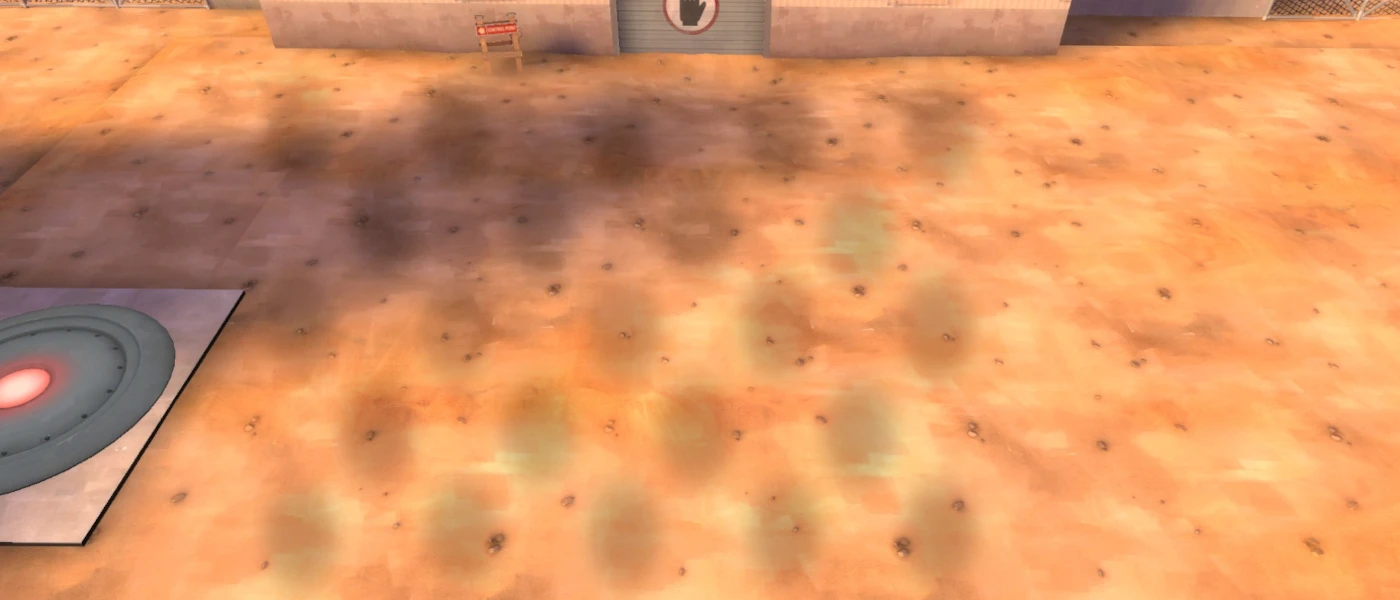
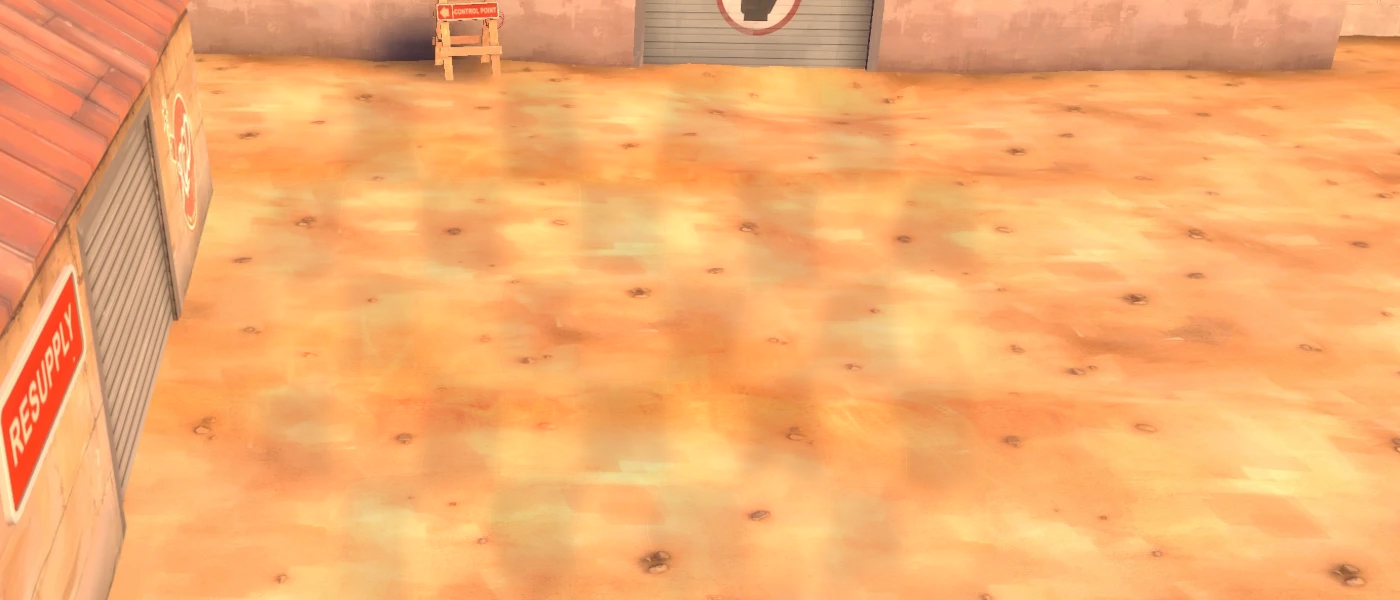
Adventure Plus: the user's day and night boards, with soft tiles blended into the planting area

diff --git a/tools/zombie-art/add_tiles.py b/tools/zombie-art/add_tiles.py
@@ -1,0 +1,80 @@
+"""Make the 9x5 planting area of an Adventure Plus board read as ground that
+varies a little from tile to tile -- the way the PvZ lawn alternates two
+shades of grass -- without drawing a checkerboard on it.
+
+    python add_tiles.py <in.png|webp> <out.png> [--night]
+
+The lawn grid is 9 columns x 5 rows of 80x100 tiles from (260, 80). Nothing
+is outlined. Alternate tiles are nudged slightly lighter/warmer or
+darker/cooler, each tile drifts a little on its own, and the boundaries are
+feathered wide and warped with noise, so the change is felt more than seen
+-- like patches of packed and loose dirt.
+"""
+import sys
+import numpy as np
+from PIL import Image, ImageFilter
+
+X0, Y0, COLS, ROWS, TW, TH = 260, 80, 9, 5, 80, 100
+FEATHER = 9          # px: how softly one tile's shade melts into the next
+WARP = 7             # px: how far the boundaries wander from straight lines
+
+
+def blur(a, r):
+    # Separable Gaussian in float, edges clamped.
+    radius = int(r * 3)
+    k = np.exp(-0.5 * (np.arange(-radius, radius + 1) / r) ** 2).astype(np.float32)
+    k /= k.sum()
+    p = np.pad(a, ((0, 0), (radius, radius)), mode='edge')
+    a = sum(k[i] * p[:, i:i + a.shape[1]] for i in range(len(k)))
+    p = np.pad(a, ((radius, radius), (0, 0)), mode='edge')
+    return sum(k[i] * p[i:i + a.shape[0], :] for i in range(len(k))).astype(np.float32)
+
+
+def smooth_noise(rng, H, W, r):
+    n = blur(rng.random((H, W)).astype(np.float32), r)
+    n = (n - n.mean()) / (n.std() + 1e-6)
+    return n
+
+
+def main(src, dst, night):
+    rng = np.random.default_rng(1347)
+    img = np.asarray(Image.open(src).convert('RGB')).astype(np.float32) / 255
+    H, W, _ = img.shape
+    yy, xx = np.mgrid[0:H, 0:W].astype(np.float32)
+
+    # Wander the tile boundaries so no edge is ruler-straight.
+    wx = xx + smooth_noise(rng, H, W, 18) * WARP
+    wy = yy + smooth_noise(rng, H, W, 18) * WARP
+    col = np.floor((wx - X0) / TW).astype(int)
+    row = np.floor((wy - Y0) / TH).astype(int)
+    inside = (col >= 0) & (col < COLS) & (row >= 0) & (row < ROWS)
+    col = np.clip(col, 0, COLS - 1)
+    row = np.clip(row, 0, ROWS - 1)
+
+    # Two kinds of ground, alternating, plus a little drift per tile.
+    parity = np.where((row + col) % 2 == 0, 1.0, -1.0).astype(np.float32)
+    drift = rng.normal(0, 0.012, (ROWS, COLS)).astype(np.float32)
+    strength = 0.048 if not night else 0.042
+    light = np.where(inside, parity * strength + drift[row, col], 0).astype(np.float32)
+    warm = np.where(inside, parity, 0).astype(np.float32)
+    light = blur(light, FEATHER)
+    warm = blur(warm, FEATHER)
+
+    # Mottle inside each tile so it's never a flat patch.
+    mottle = smooth_noise(rng, H, W, 10) * 0.012
+
+    # Brightness, and a small warm/cool shift: the lighter ground a touch
+    # warmer, the darker a touch cooler, as packed and loose dirt differ.
+    hue = np.array([1.0, 0.55, -0.35], np.float32) * (0.010 if not night else 0.008)
+    out = img * (1 + light[..., None] + mottle[..., None] * (np.abs(warm[..., None]) > 0.05))
+    out = out + warm[..., None] * hue
+
+    # Fade the whole effect in from the grid's edge.
+    edge = blur(inside.astype(np.float32), 12)[..., None]
+    out = img * (1 - edge) + out * edge
+    Image.fromarray(np.clip(out * 255, 0, 255).astype(np.uint8)).save(dst)
+    print('wrote', dst)
+
+
+if __name__ == '__main__':
+    main(sys.argv[1], sys.argv[2], '--night' in sys.argv)
